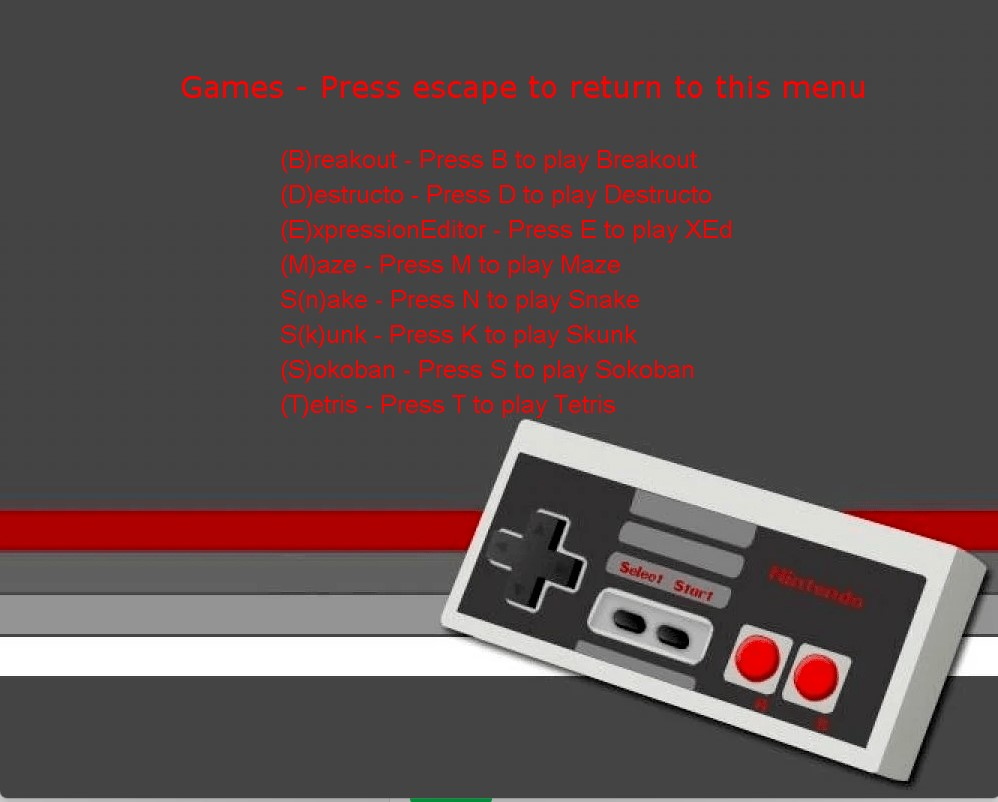
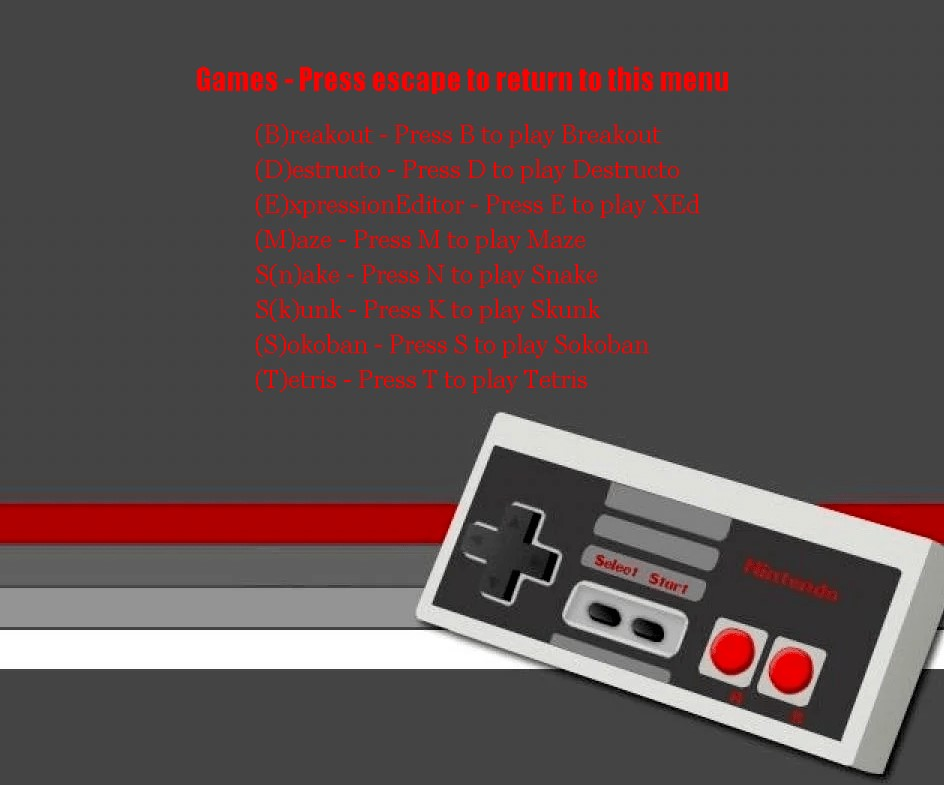
Update menu UI to move instructions higher

diff --git a/src/main/java/menu/GameMenu.java b/src/main/java/menu/GameMenu.java
@@ -61,7 +61,7 @@ public class GameMenu extends Window {
     g.setColor(Color.RED);
     int x = 220, y = 100, increment = 35;
     g.setFont(new Font("Impact", Font.PLAIN, 30));
-    g.drawString("Games - Press escape to return to this menu", x, y); y += increment * 2;
+    g.drawString("Games - Press escape to return to this menu", x, y); y += increment * 3 / 2;
     g.setFont(new Font("Georgia", Font.PLAIN, 25));
     x = 280;
     g.drawString("(B)reakout - Press B to play Breakout", x, y); y += increment;
